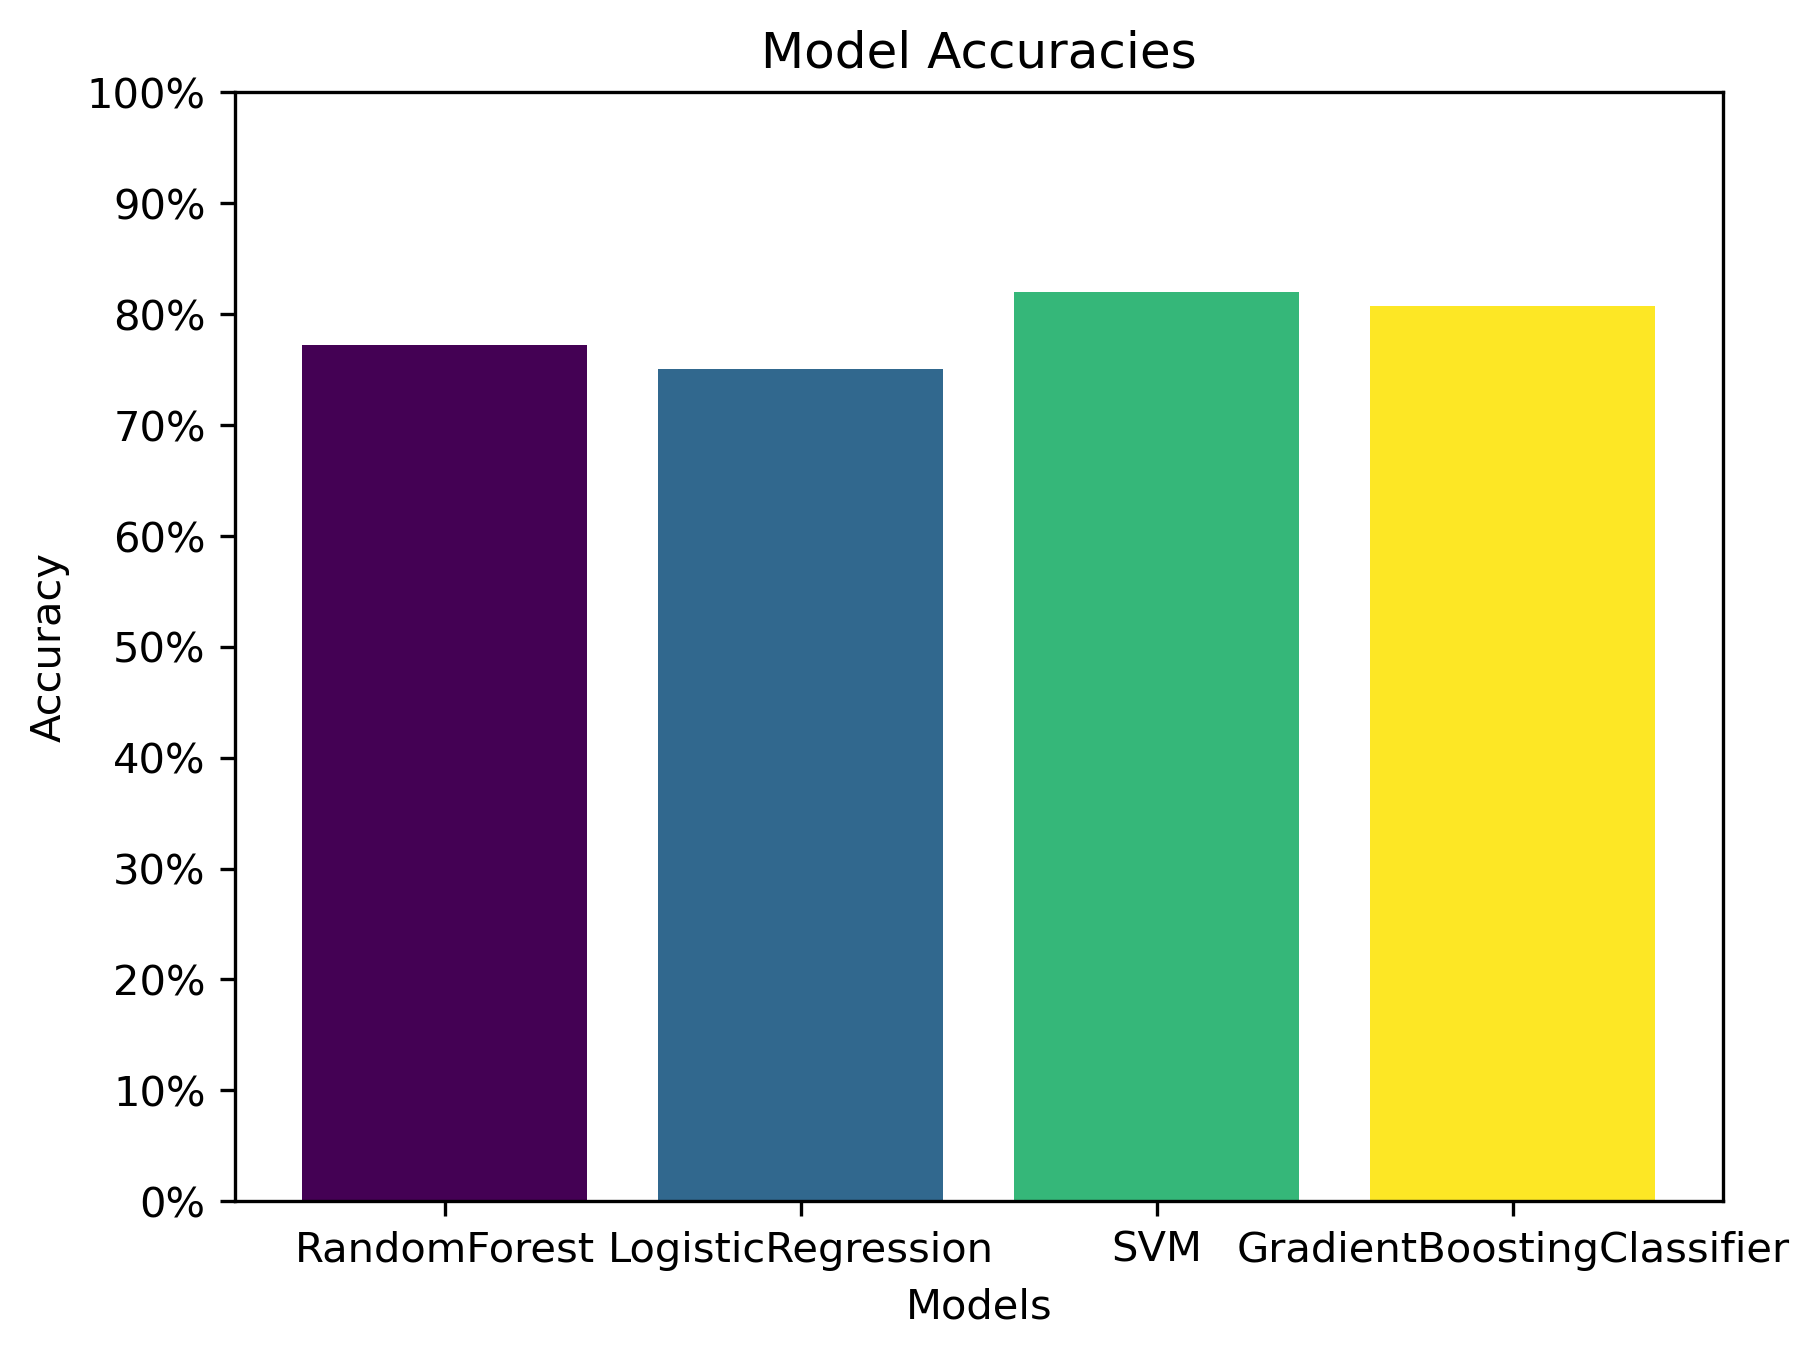
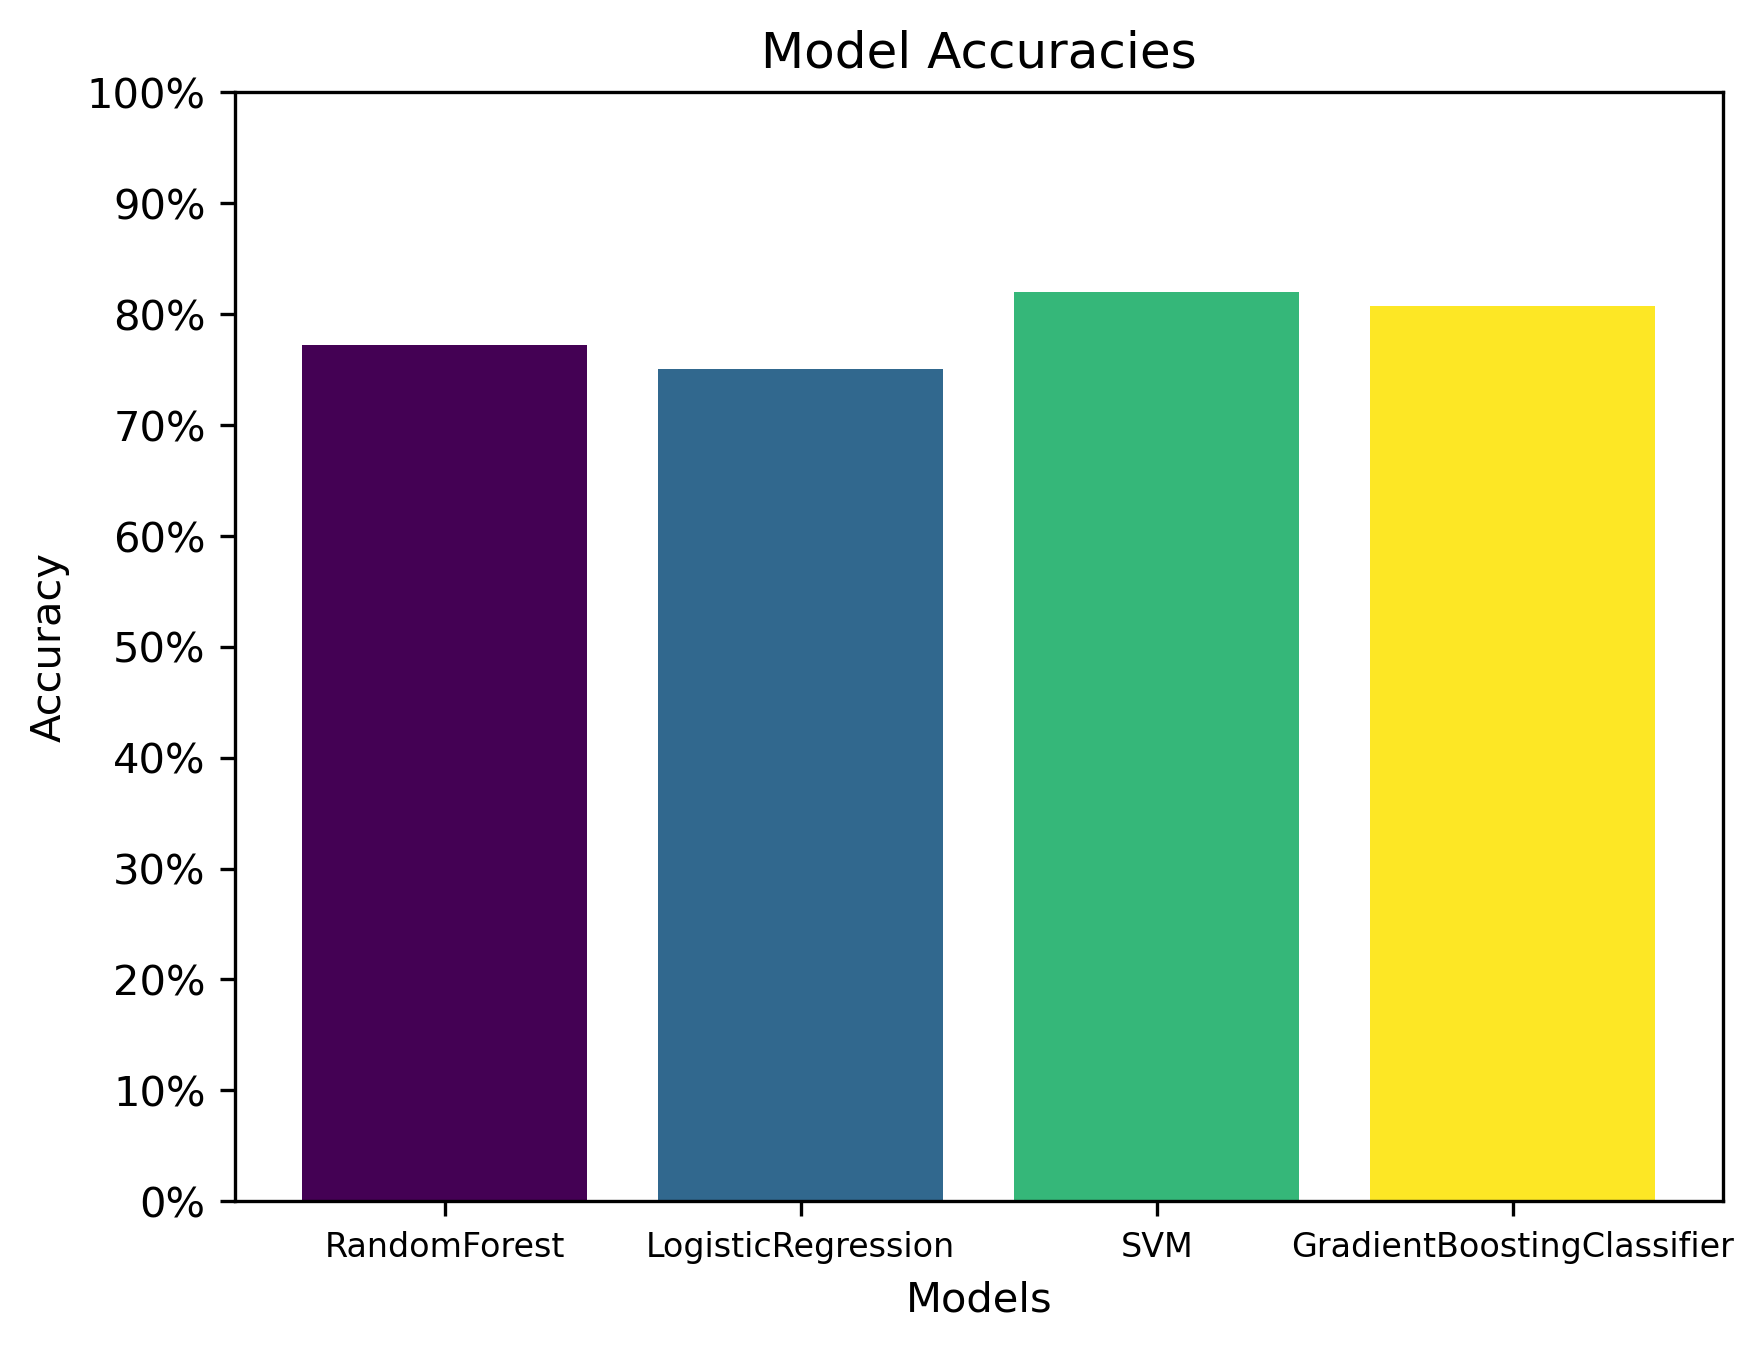
Make labels smaller on the graph

diff --git a/other_algorithms/other_testing.py b/other_algorithms/other_testing.py
@@ -1,6 +1,5 @@
 import pandas as pd
 from sklearn.preprocessing import MaxAbsScaler
-import time
 from sklearn.model_selection import train_test_split
 import time
 from sklearn.ensemble import RandomForestClassifier
@@ -85,8 +84,7 @@ if __name__ == "__main__":
     print("Execution time: {}".format((t2-t1)))
 
 
-
-    #graph accuracy of all models used: 
+    #graph accuracy of all models: 
     models = list(accuracy_dict.keys())
     accuracies = list(accuracy_dict.values())
 
@@ -99,7 +97,7 @@ if __name__ == "__main__":
 
     plt.ylim(0, 1)
     plt.yticks([i/10 for i in range(0, 11)], ['{:.0f}%'.format(i * 100) for i in [i/10 for i in range(0, 11)]])
-
+    plt.xticks(fontsize=8)
     plt.savefig("model_accuracies.png", dpi=300, bbox_inches="tight")
     plt.show()
 
